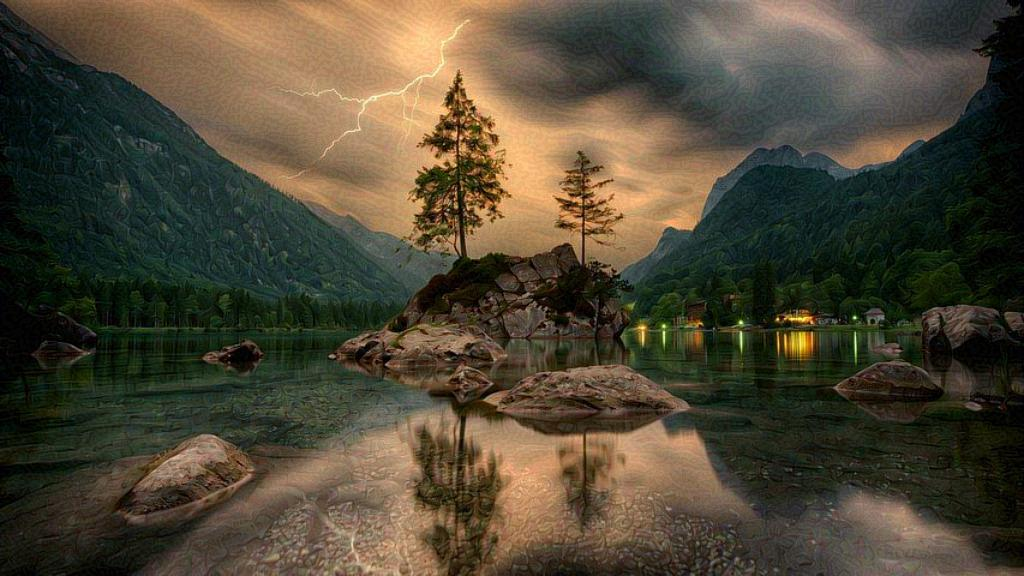
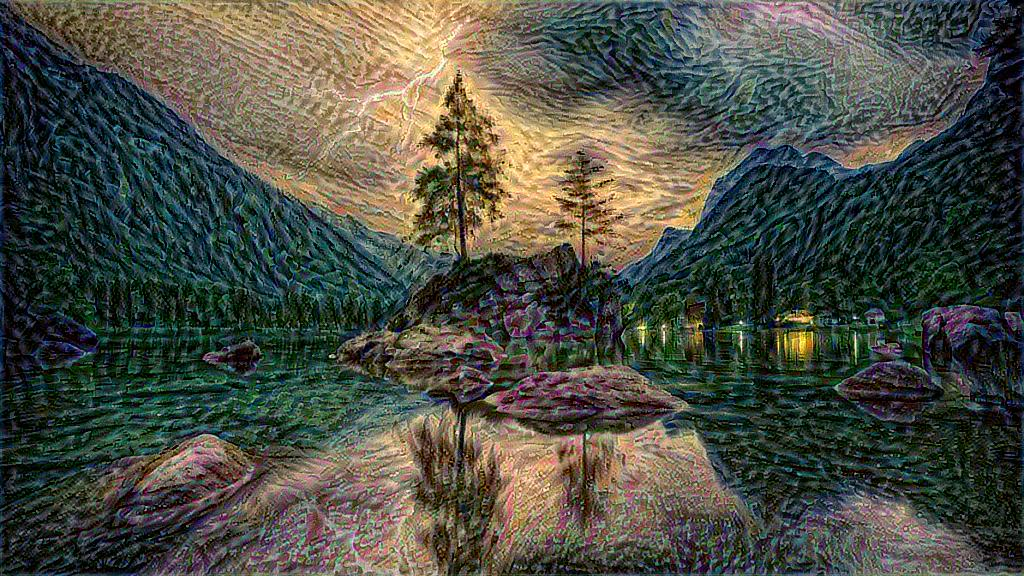
Changes to the web pages

diff --git a/templates/Udine.html b/templates/Udine.html
@@ -11,68 +11,50 @@
 </head>
 <body>
 
-    <header class="text-center text-white py-5">
-        <div class="jumbotron bg-cover text-white">
-            <!-- <div class="container py-5 text-center" style="backdrop-filter: blur(5px);"> -->
+<header class="text-center text-white py-5">
+    <div class="jumbotron bg-cover text-white">
+            <h1 class=" text-center display-4 font-weight-bold">Tensor Artist</h1>
+    </div>
+</header>
 
-                <h1 class=" text-center display-4 font-weight-bold">Tensor Artist</h1>
-               
-                <!-- <a href="#" role="button" class="btn btn-primary px-5">See All Features</a> -->
-            <!-- </div> -->
-        </div>
-        <!-- <h1 class="head-text">Trial</h1> -->
-        </header>
-        <!-- <div class="row justify-content-md-center">
-            <div class="col-6 col-md-4">
-                <img class="img-fluid" src="../static/uploads/starrynight.jpg" alt="starrynight">
-            </div>
-            
-            <div class="col-6 col-md-4">
-                    <img class="img-fluid" src="../static/uploads/tree.jpg" alt="yourimage" >
-            </div>
-        </div> -->
 <div class="container" id="content" >
-    <div class="row justify-content-md-center">
-        
+    <div class="row justify-content-md-center">  
         {% if input_name %}
-        <div class="col-6 col-md-4">
+        <div class="col-6 col-md-6">
             <img class="img-fluid" src="{{ url_for('display_image', filename=input_name) }}" alt="yourimage" >
-            <label class="mr-sm-2" for="inlineFormCustomSelect">{{input_name}}</label>    
+            <label class="mr-sm-2" for="inlineFormCustomSelect">Input Image</label>    
         </div>
         {% endif %}
 
         {% if filename %}
-        <div class="col-6 col-md-4">
+        <div class="col-6 col-md-6">
             <img class="img-fluid" src="{{ url_for('display_image', filename=filename) }}" alt="yourimage" >
-            <label class="mr-sm-2" for="inlineFormCustomSelect">{{filename}} </label>    
+            <label class="mr-sm-2" for="inlineFormCustomSelect">Your Image Francis Picabia Style </label>    
         </div>
         {% endif %}
 </div>
+<div class="row justify-content-md-center">
+    <div class="col-6 col-md-12">
+        <h1>Francis Picabia</h1>
+    </div>
+</div>
 
 <div class="row justify-content-md-center">
-    <div class="col-6">
+    <div class="col-6 col-md-8">
         <p class="Artist_info">
-            Udine
-                </p>
+            Francis Picabia (French: [fʁɑ̃sis pikabja]: born Francis-Marie Martinez de Picabia; 22 January 1879 – 30 November 1953) was a French avant-garde painter, poet and typographist. After experimenting with Impressionism and Pointillism, Picabia became associated with Cubism. His highly abstract planar compositions were colourful and rich in contrasts. He was one of the early major figures of the Dada movement in the United States and in France. He was later briefly associated with Surrealism, but would soon turn his back on the art establishment.[1]
+        </p>
+        <p>
+            Francis Picabia was born in Paris of a French mother and a Cuban father of Spanish descent. Some sources would have his father as of aristocratic Spanish descent, whereas others consider him of non-aristocratic Spanish descent, from the region of Galicia.[2] His birth year of 1879 coincided with the Spanish-Cuban Little War; and though Picabia was born in Paris, his father was involved in Cuban-French relations and would later serve as attaché at the Cuban legation in Paris (see the Treaty of 1898). The family ties to Cuba would be important in Picabia's life later on.
+        </p>
       </div>
     <div class="col-6 col-md-4">
-        <img class="img-fluid" src="/static/uploads/Udine.jpeg" alt="starrynight">
-        <label class="mr-sm-2" for="inlineFormCustomSelect">Van Gogh's StarryNight </label>
+        <img class="img-fluid" src="/static/uploads/Udine.jpeg" alt="udine">
+        <br>
+        <label class="mr-sm-2" for="inlineFormCustomSelect">Udine </label>
       </div>
 </div>
 </div>
-<!-- <script type="text/javascript">
-    function loading(){
-        // alert("The Form has been Submitted.");
-        $("#loading").show();
-        $("#content").hide();       
-    }
-    $('#customFile').on('change',function(){
-                //get the file name
-                var fileName = $(this).val().replace('C:\\fakepath\\', " ");
-                //replace the "Choose a file" label
-                $(this).next('.custom-file-label').html(fileName);
-            })
-</script> -->
+
 </body>
 </html>

diff --git a/templates/picasso.html b/templates/picasso.html
@@ -13,51 +13,46 @@
 
     <header class="text-center text-white py-5">
         <div class="jumbotron bg-cover text-white">
-            <!-- <div class="container py-5 text-center" style="backdrop-filter: blur(5px);"> -->
-
                 <h1 class=" text-center display-4 font-weight-bold">Tensor Artist</h1>
-                
-                <!-- <a href="#" role="button" class="btn btn-primary px-5">See All Features</a> -->
-            <!-- </div> -->
         </div>
-        <!-- <h1 class="head-text">Trial</h1> -->
         </header>
-        <!-- <div class="row justify-content-md-center">
-            <div class="col-6 col-md-4">
-                <img class="img-fluid" src="../static/uploads/starrynight.jpg" alt="starrynight">
-            </div>
-            
-            <div class="col-6 col-md-4">
-                    <img class="img-fluid" src="../static/uploads/tree.jpg" alt="yourimage" >
-            </div>
-        </div> -->
 <div class="container" id="content" >
     <div class="row justify-content-md-center">
         
         {% if input_name %}
-        <div class="col-6 col-md-4">
+        <div class="col-6 col-md-6">
             <img class="img-fluid" src="{{ url_for('display_image', filename=input_name) }}" alt="yourimage" >
-            <label class="mr-sm-2" for="inlineFormCustomSelect">{{input_name}}</label>    
+            <label class="mr-sm-2" for="inlineFormCustomSelect">Input Image</label>    
         </div>
         {% endif %}
 
         {% if filename %}
-        <div class="col-6 col-md-4">
+        <div class="col-6 col-md-6">
             <img class="img-fluid" src="{{ url_for('display_image', filename=filename) }}" alt="yourimage" >
-            <label class="mr-sm-2" for="inlineFormCustomSelect">{{filename}} </label>    
+            <label class="mr-sm-2" for="inlineFormCustomSelect">Your Image Picasso Style </label>    
         </div>
         {% endif %}
 </div>
 
 <div class="row justify-content-md-center">
-    <div class="col-6">
+    <div class="col-6 col-md-12">
+        <h1>Pablo Ruiz Picasso</h1>
+    </div>
+</div>
+
+<div class="row justify-content-md-center">
+    <div class="col-6 col-md-8">
         <p class="Artist_info">
-            Picasso
+            Pablo Ruiz Picasso[a][b] (25 October 1881 – 8 April 1973) was a Spanish painter, sculptor, printmaker, ceramicist and theatre designer who spent most of his adult life in France. Regarded as one of the most influential artists of the 20th century, he is known for co-founding the Cubist movement, the invention of constructed sculpture,[8][9] the co-invention of collage, and for the wide variety of styles that he helped develop and explore. Among his most famous works are the proto-Cubist Les Demoiselles d'Avignon (1907), and Guernica (1937), a dramatic portrayal of the bombing of Guernica by German and Italian air forces during the Spanish Civil War.
+        </p>
+        <p>
+            Picasso demonstrated extraordinary artistic talent in his early years, painting in a naturalistic manner through his childhood and adolescence. During the first decade of the 20th century, his style changed as he experimented with different theories, techniques, and ideas. After 1906, the Fauvist work of the slightly older artist Henri Matisse motivated Picasso to explore more radical styles, beginning a fruitful rivalry between the two artists, who subsequently were often paired by critics as the leaders of modern art.
         </p>
       </div>
     <div class="col-6 col-md-4">
-        <img class="img-fluid" src="/static/uploads/picasso.jpeg" alt="starrynight">
-        <label class="mr-sm-2" for="inlineFormCustomSelect">Van Gogh's StarryNight </label>
+        <img class="img-fluid" src="/static/uploads/picasso.jpeg" alt="picasso">
+        <br>
+        <label class="mr-sm-2" for="inlineFormCustomSelect">The Weeping Woman</label>
       </div>
 </div>
 </div>

diff --git a/templates/WassK.html b/templates/WassK.html
@@ -25,29 +25,38 @@
     <div class="row justify-content-md-center">
         
         {% if input_name %}
-        <div class="col-6 col-md-4">
+        <div class="col-6 col-md-6">
             <img class="img-fluid" src="{{ url_for('display_image', filename=input_name) }}" alt="yourimage" >
-            <label class="mr-sm-2" for="inlineFormCustomSelect">{{input_name}}</label>    
+            <label class="mr-sm-2" for="inlineFormCustomSelect">Input Image </label>    
         </div>
         {% endif %}
 
         {% if filename %}
-        <div class="col-6 col-md-4">
+        <div class="col-6 col-md-6">
             <img class="img-fluid" src="{{ url_for('display_image', filename=filename) }}" alt="yourimage" >
-            <label class="mr-sm-2" for="inlineFormCustomSelect">{{filename}} </label>    
+            <label class="mr-sm-2" for="inlineFormCustomSelect">Your Image Wassily Style</label>    
         </div>
         {% endif %}
 </div>
+<div class="row justify-content-md-center">
+    <div class="col-6 col-md-12">
+        <h1>Wassily Kandinsky</h1>
+    </div>
+</div>
 
 <div class="row justify-content-md-center">
-    <div class="col-6">
+    <div class="col-6 col-md-8">
         <p class="Artist_info">
-            Wassily Kandinsky
+            Wassily Wassilyevich Kandinsky ; Russian: Василий Васильевич Кандинский, tr. Vasiliy Vasilyevich Kandinskiy, IPA: [vɐˈsʲilʲɪj vɐˈsʲilʲjɪvʲɪtɕ kɐnʲˈdʲinskʲɪj]; 16 December [O.S. 4 December] 1866 – 13 December 1944) was a Russian painter and art theorist. Kandinsky is generally credited as one of the pioneers of abstraction in western art, possibly after Hilma af Klint.[1] Born in Moscow, he spent his childhood in Odessa, where he graduated at Grekov Odessa Art school. He enrolled at the University of Moscow, studying law and economics. Successful in his profession—he was offered a professorship (chair of Roman Law) at the University of Dorpat (today Tartu, Estonia)—Kandinsky began painting studies (life-drawing, sketching and anatomy) at the age of 30.
+        </p>
+        <p>
+            In 1896, Kandinsky settled in Munich, studying first at Anton Ažbe's private school and then at the Academy of Fine Arts. He returned to Moscow in 1914, after the outbreak of World War I. Following the Russian Revolution, Kandinsky "became an insider in the cultural administration of Anatoly Lunacharsky"[2] and helped establish the Museum of the Culture of Painting.[3] However, by then "his spiritual outlook... was foreign to the argumentative materialism of Soviet society",[4] and opportunities beckoned in Germany, to which he returned in 1920. There he taught at the Bauhaus school of art and architecture from 1922 until the Nazis closed it in 1933. He then moved to France, where he lived for the rest of his life, becoming a French citizen in 1939 and producing some of his most prominent art. He died in Neuilly-sur-Seine in 1944, three days prior to his 78th birthday.
         </p>
       </div>
     <div class="col-6 col-md-4">
         <img class="img-fluid" src="/static/uploads/WassilyKandinsky.jpg" alt="starrynight">
-        <label class="mr-sm-2" for="inlineFormCustomSelect">Van Gogh's StarryNight </label>
+        <br>
+        <label class="mr-sm-2" for="inlineFormCustomSelect">Yellow-Red-Blue </label>
       </div>
 </div>
 </div>

diff --git a/templates/vangogh.html b/templates/vangogh.html
@@ -11,32 +11,25 @@
 </head>
 <body>
 
-    <header class="text-center text-white py-5">
-        <div class="jumbotron bg-cover text-white">
-            <!-- <div class="container py-5 text-center" style="backdrop-filter: blur(5px);"> -->
+<header class="text-center text-white py-5">
+    <div class="jumbotron bg-cover text-white">
+            <h1 class=" text-center display-4 font-weight-bold">Tensor Artist</h1>
+    </div>
+</header>
 
-                <h1 class=" text-center display-4 font-weight-bold">Tensor Artist</h1>
-                
-                <!-- <a href="#" role="button" class="btn btn-primary px-5">See All Features</a> -->
-            <!-- </div> -->
-        </div>
-        <!-- <h1 class="head-text">Trial</h1> -->
-        </header>
-        </div> -->
 <div class="container" id="content" >
     <div class="row justify-content-md-center">
-        
         {% if input_name %}
         <div class="col-6 col-md-6">
             <img class="img-fluid" src="{{ url_for('display_image', filename=input_name) }}" alt="yourimage" >
-            <label class="mr-sm-2" for="inlineFormCustomSelect">{{input_name}}</label>    
+            <label class="mr-sm-2" for="inlineFormCustomSelect">Input Image</label>    
         </div>
         {% endif %}
 
         {% if filename %}
         <div class="col-6 col-md-6">
             <img class="img-fluid" src="{{ url_for('display_image', filename=filename) }}" alt="yourimage" >
-            <label class="mr-sm-2" for="inlineFormCustomSelect">{{filename}} </label>    
+            <label class="mr-sm-2" for="inlineFormCustomSelect">Your Image Van Gogh Style </label>    
         </div>
         {% endif %}
 </div>
@@ -48,14 +41,15 @@
         
 
 <div class="row justify-content-md-center">
-    <div class="col-6  col-md-9">
+    <div class="col-6  col-md-8">
         <p class="Artist_info">
             Vincent Willem van Gogh (Dutch: [ˈvɪnsənt ˈʋɪləɱ vɑŋ ˈɣɔx] (listen);[note 1] 30 March 1853 – 29 July 1890) was a Dutch Post-Impressionist painter who posthumously became one of the most famous and influential figures in Western art history. In a decade, he created about 2,100 artworks, including around 860 oil paintings, most of which date from the last two years of his life. They include landscapes, still lifes, portraits, and self-portraits, and are characterised by bold colours and dramatic, impulsive and expressive brushwork that contributed to the foundations of modern art. He was not commercially successful, struggled with severe depression and poverty, and committed suicide at the age of 37.
         </p>
       </div>
-    <div class="col-6 col-md-3">
+    <div class="col-6 col-md-4">
         <img class="img-fluid" src="/static/uploads/starrynight.jpg" alt="starrynight">
-        <label class="mr-sm-2" for="inlineFormCustomSelect">Van Gogh's StarryNight </label>
+        <br>
+        <label class="mr-sm-2" for="inlineFormCustomSelect">The Starry Night </label>
       </div>
 </div>
 </div>

diff --git a/static/css/Artist.css b/static/css/Artist.css
@@ -3,11 +3,12 @@ body{
     
 }
 h1{
+    color: white;
     text-shadow: -4px 0 black, 0 1px black, 1px 0 black, 0 -1px black;
 }
 p{
-    color: black;
-    text-shadow: -1px 0 white, 0 1px white, 1px 0 white, 0 -1px white;
+    color: white;
+    /* text-shadow: -1px 0 white, 0 1px white, 1px 0 white, 0 -1px white; */
 }
 
 .jumbotron {

diff --git a/static/css/mystyle.css b/static/css/mystyle.css
@@ -6,7 +6,8 @@ h1{
     text-shadow: -4px 0 black, 0 1px black, 1px 0 black, 0 -1px black;
 }
 p{
-    text-shadow: -1px 0 black, 0 1px black, 1px 0 black, 0 -1px black;
+    color: white;
+    /* text-shadow: -1px 0 black, 0 1px black, 1px 0 black, 0 -1px black; */
 }
 #loading {
     width: 100%;

diff --git a/templates/index.html b/templates/index.html
@@ -76,7 +76,6 @@
         
     </div>
     </div>
-    <button type="submit" onclick="loading();">hello</button>
     <script type="text/javascript">
         function loading(){
             // alert("The Form has been Submitted.");

diff --git a/app.py b/app.py
@@ -187,7 +187,8 @@ def transformTo(content_image_name,tr_style):
     content_targets = extractor(content_image)['content']
     image = tf.Variable(content_image)
     opt = tf.optimizers.Adam(learning_rate=0.02, beta_1=0.99, epsilon=1e-1)
-    for n in range(1):
+    epochs=30
+    for n in range(epochs):
         train_step(image,extractor,style_targets,content_targets,opt)
         print(".", end='', flush=True)
     
